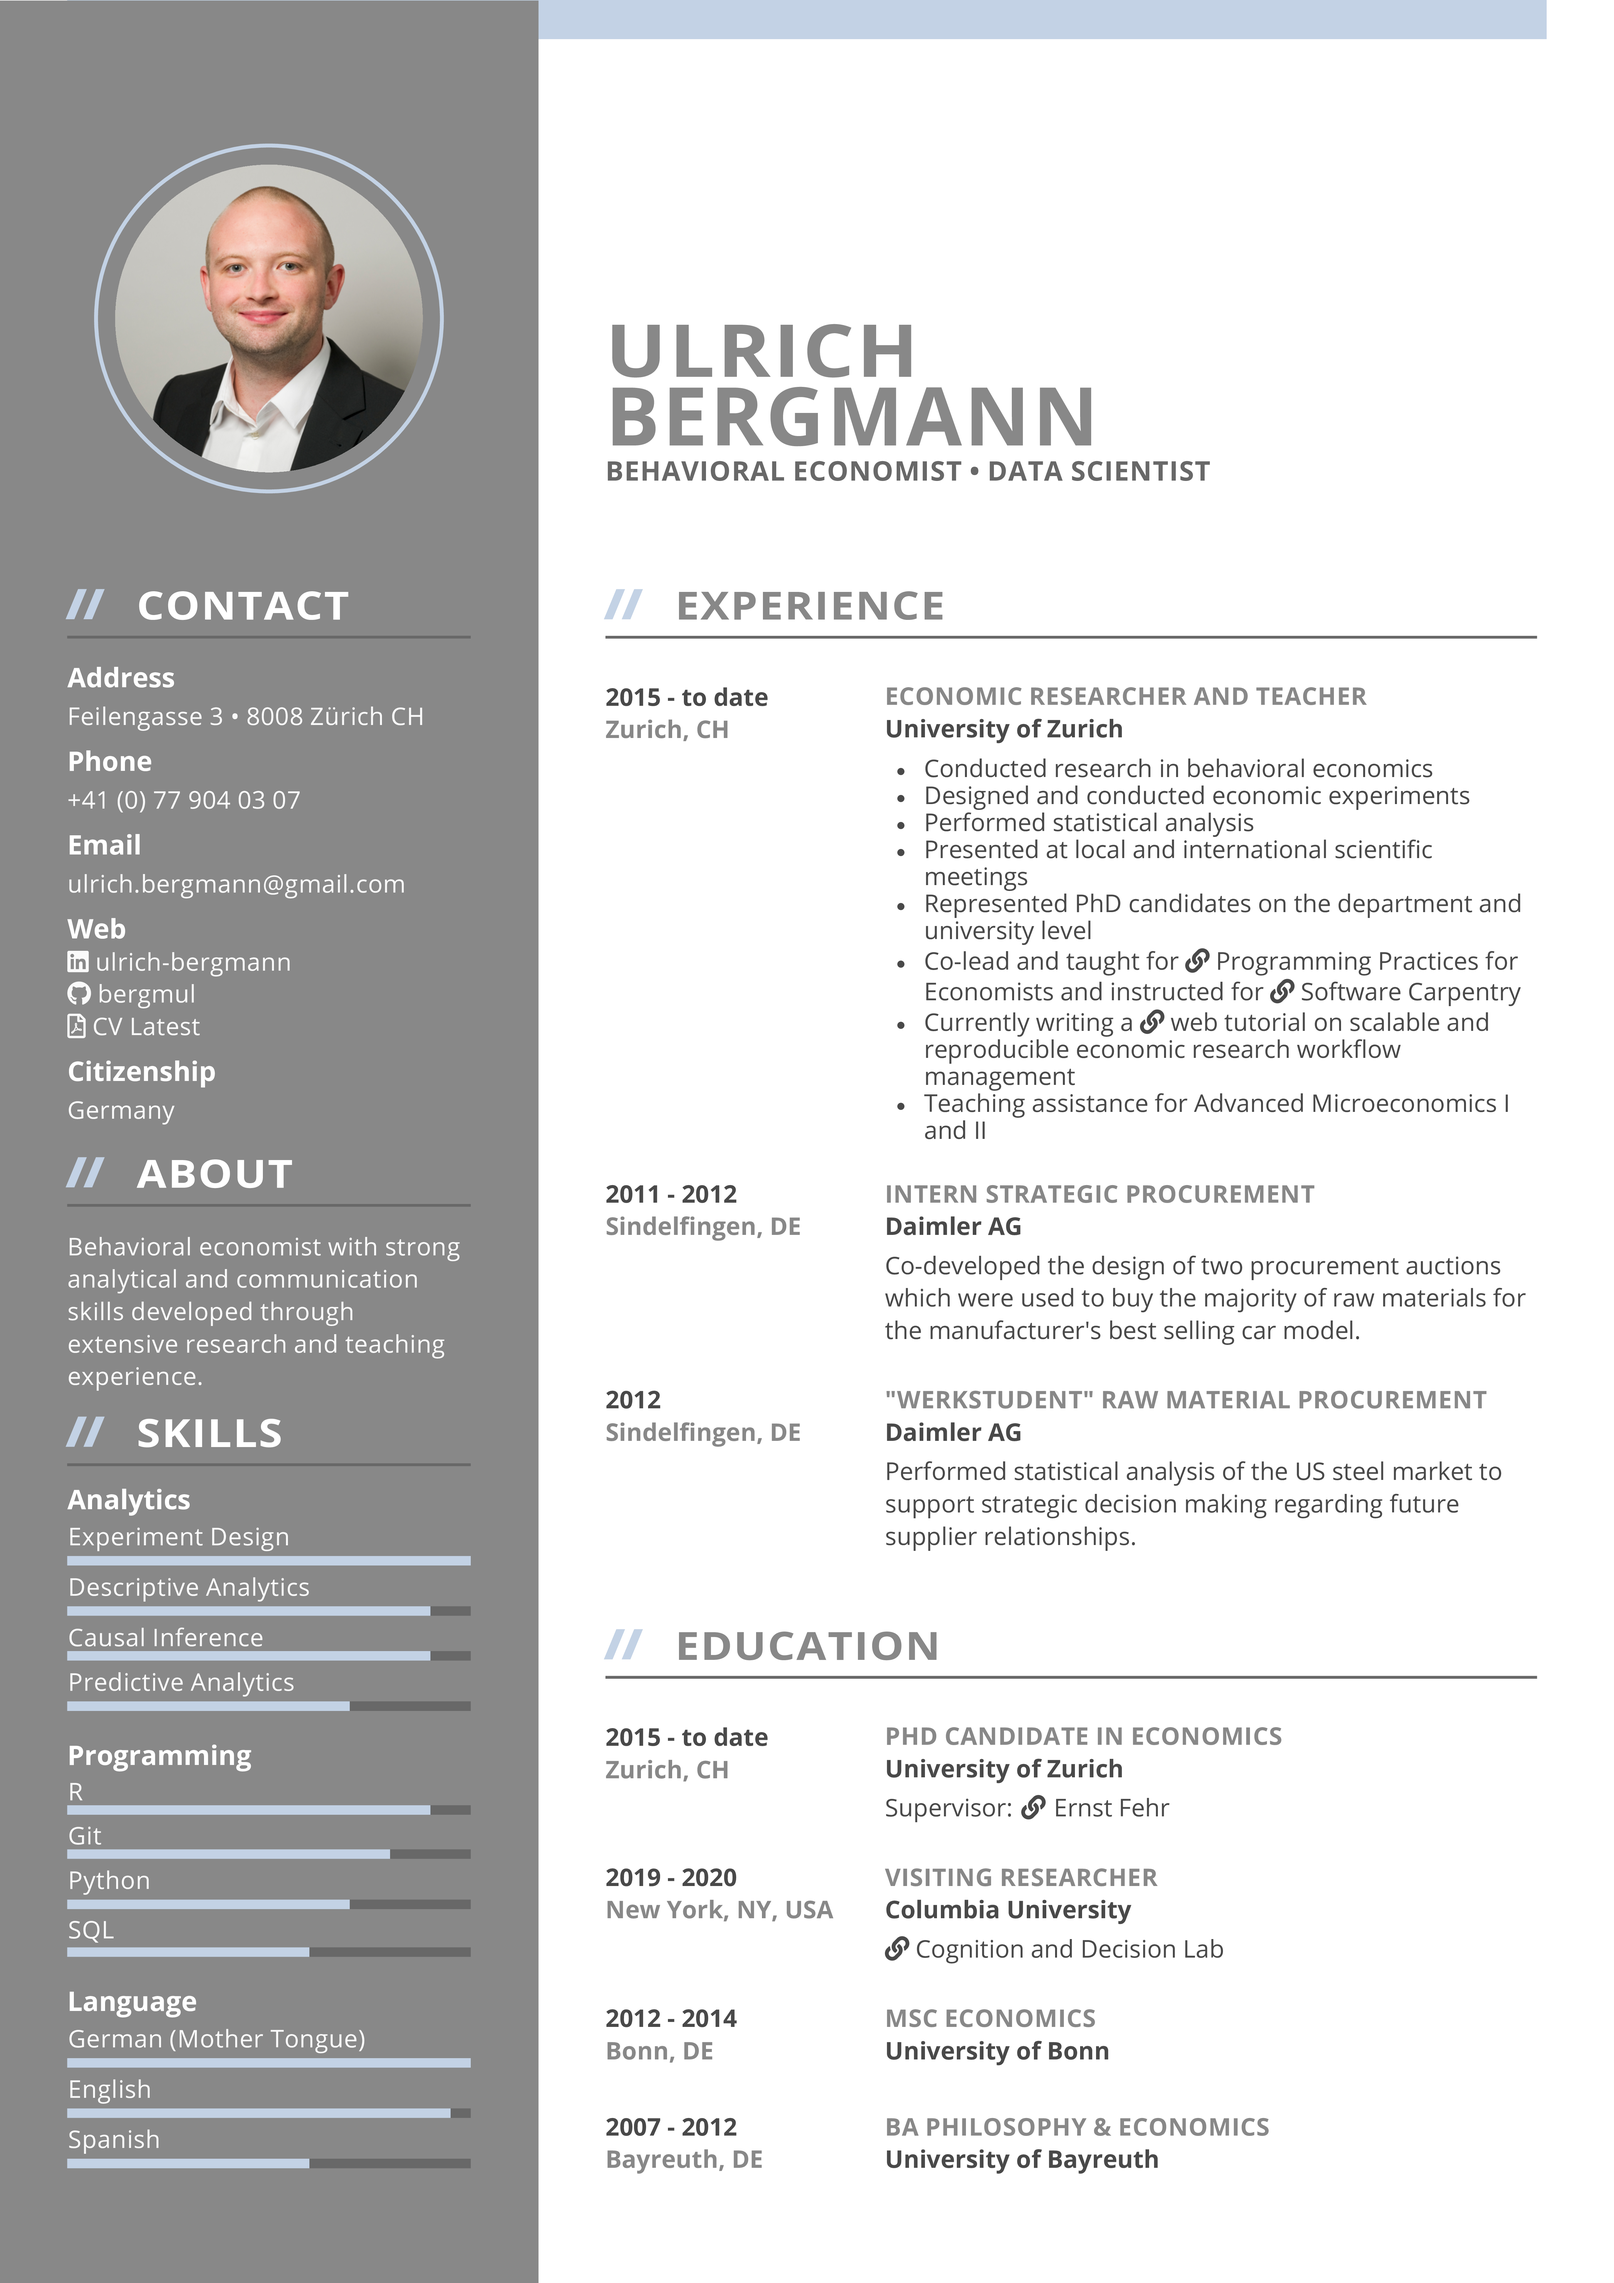
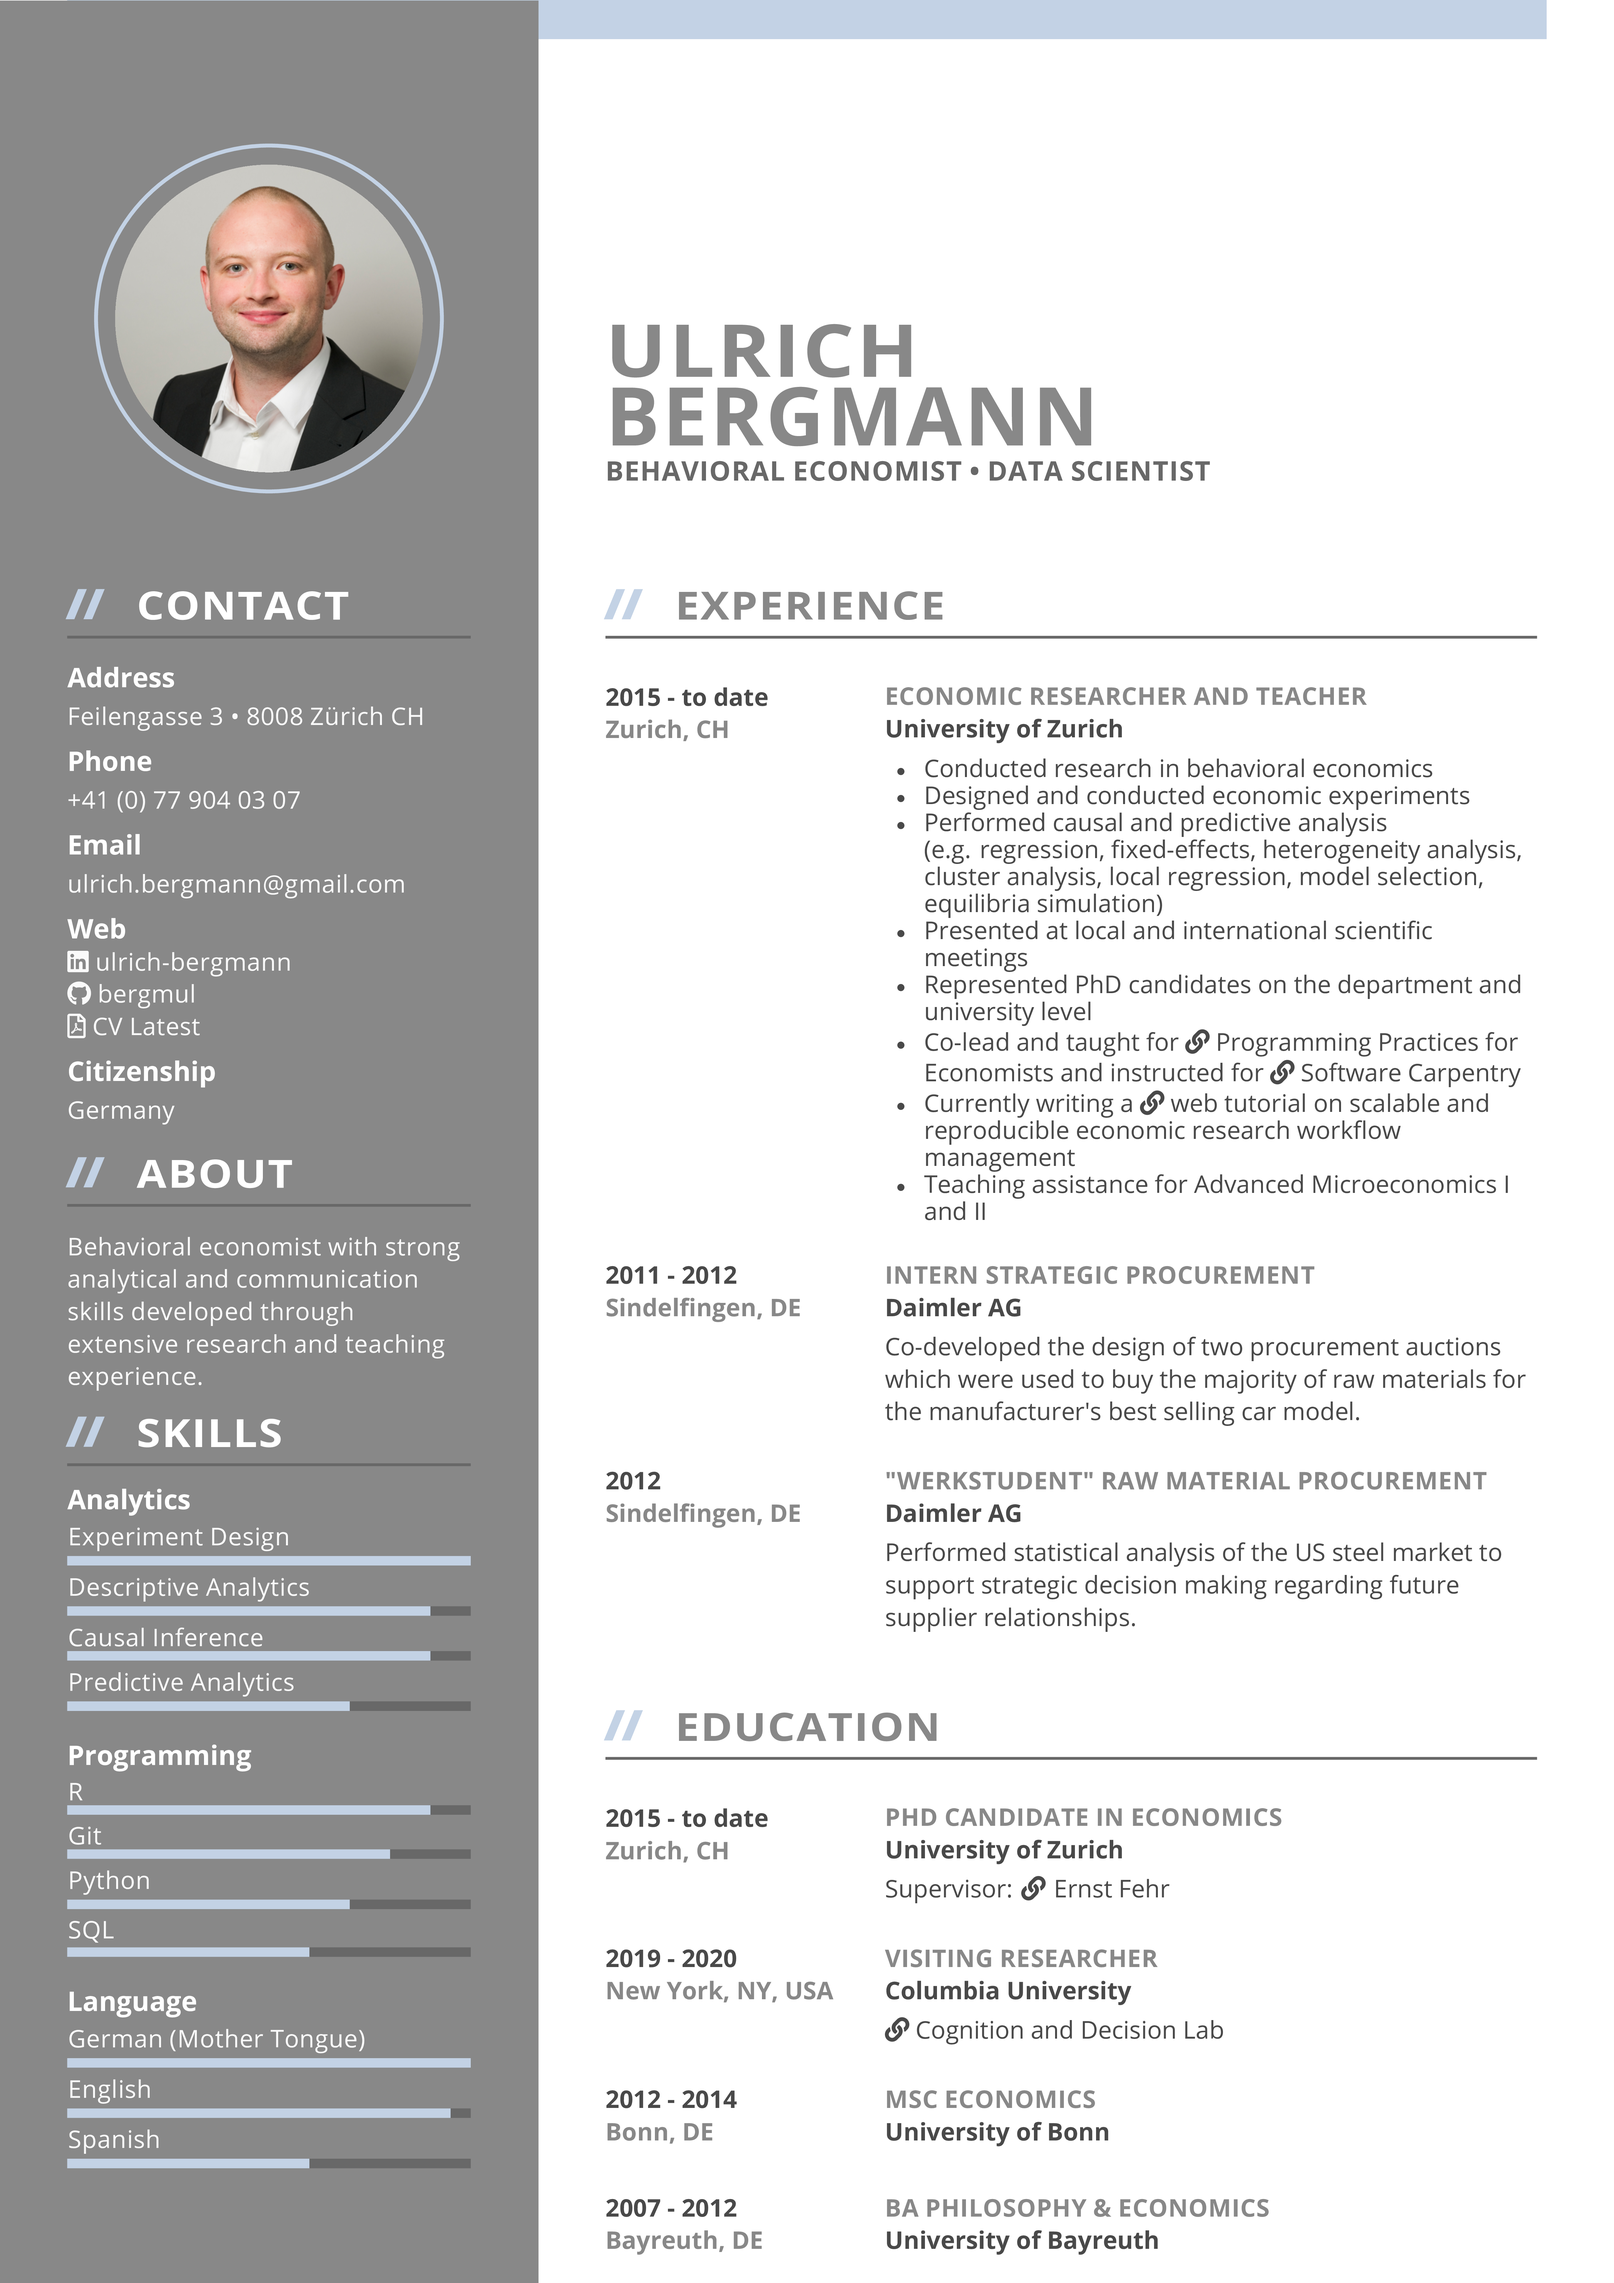
Analysis examples

Changed region(s): [[0.3749, 0.3434, 0.9373, 0.9989], [0.3749, 0.4994, 0.4687, 0.6867], [0.7186, 0.9052, 0.7811, 0.9364]]

diff --git a/resources/experience.tex b/resources/experience.tex
@@ -13,7 +13,7 @@
     \begin{entrylist}
       \item Conducted research in behavioral economics
       \item Designed and conducted economic experiments
-      \item Performed statistical analysis
+      \item Performed causal and predictive analysis \\ (e.g. regression, fixed-effects, heterogeneity analysis, cluster analysis, local regression, model selection, equilibria simulation)
       \item Presented at local and international scientific meetings
       \item Represented PhD candidates on the department and university level
       \item Co-lead and taught for \href{https://pp4rs.github.io/}{\faIcon{link} Programming Practices for Economists} and instructed for \href{https://uzhcrs.github.io/2019-02-07-zurich/}{\faIcon{link} Software Carpentry}
